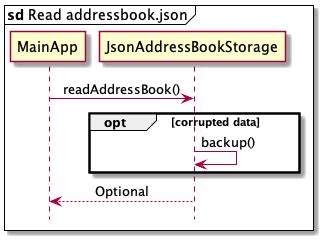
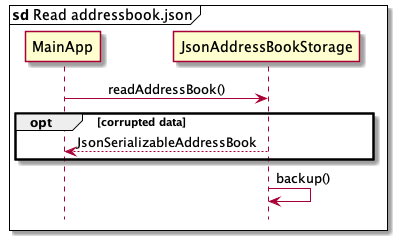
Fix ReadAddressBookSequenceDiagram

diff --git a/docs/DeveloperGuide.md b/docs/DeveloperGuide.md
@@ -130,7 +130,7 @@ The `Model` component,
 
 **API** : [`Storage.java`](https://github.com/se-edu/addressbook-level3/tree/master/src/main/java/seedu/address/storage/Storage.java)
 
-<img src="images/StorageClassDiagram.png" width="550" />
+<img src="images/StorageClassDiagram.png" width="350" />
 
 The `Storage` component,
 * can save both address book data and user preference data in json format, and read them back into corresponding objects.
